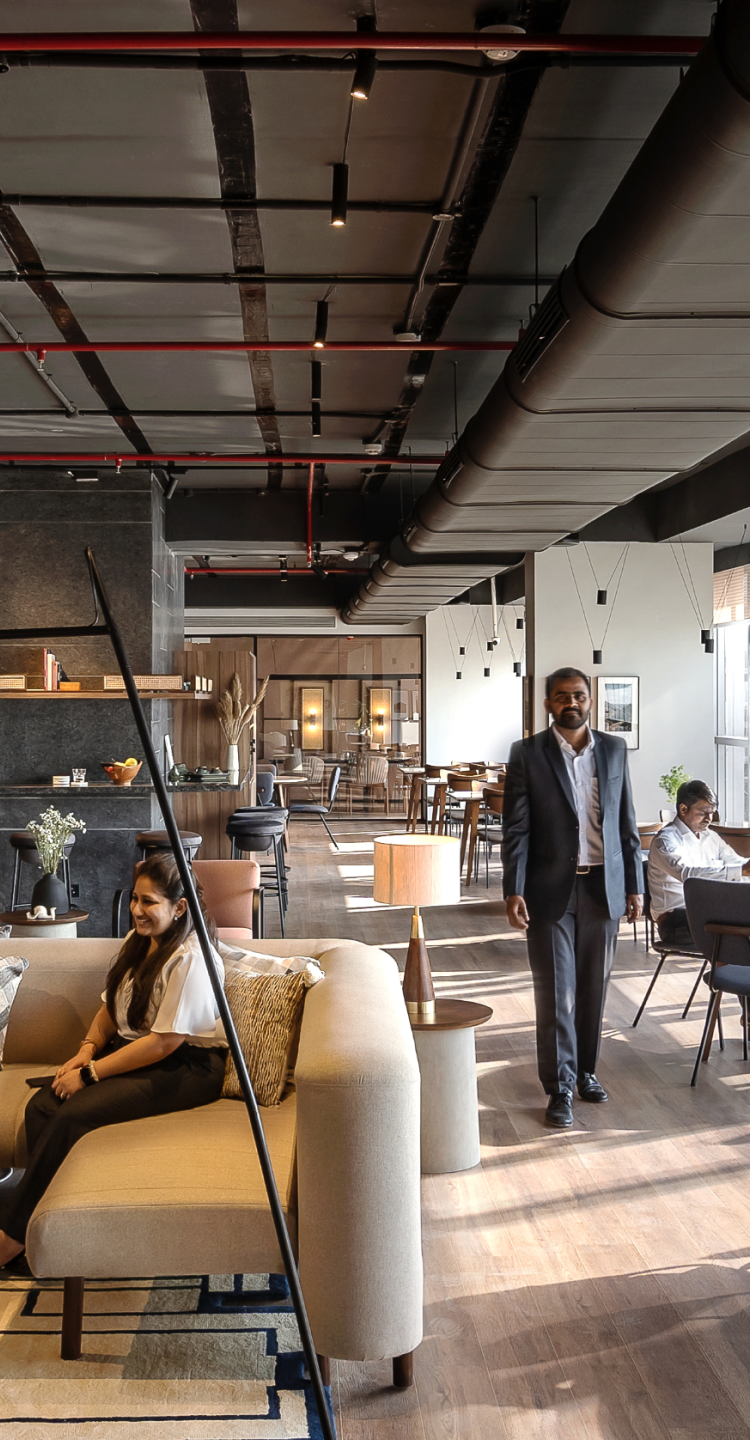
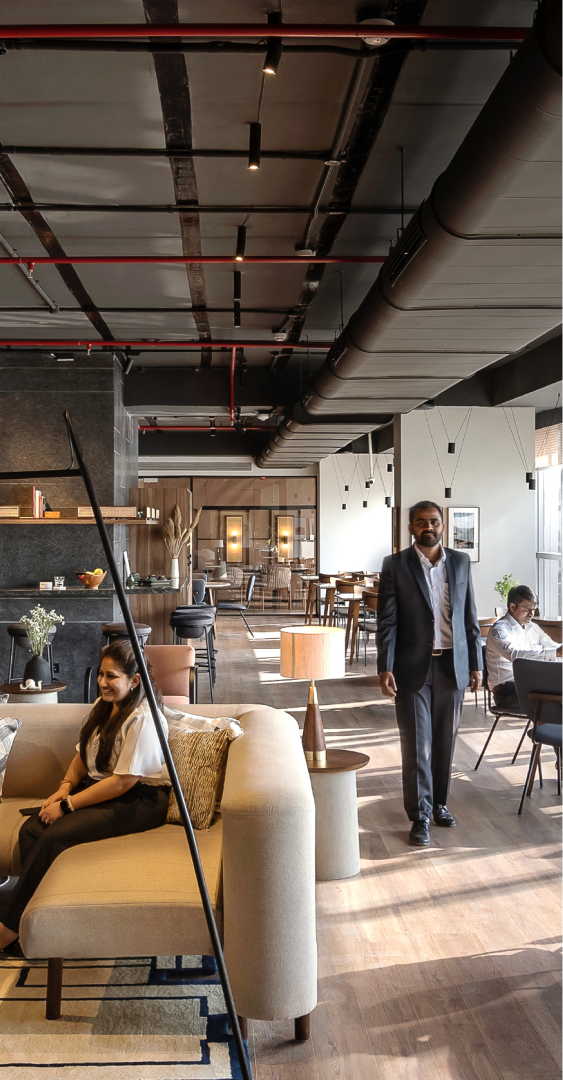
refactor: qc changes add

diff --git a/src/components/locationInside/restaurants.js b/src/components/locationInside/restaurants.js
@@ -11,12 +11,11 @@ export default function Restaurants({ data }) {
             <div className='w-full mx-auto  flex max-lg:items-center max-lg:justify-center  justify-between max-lg:flex-col max-lg:gap-10'>
                 <div className='w-[487px] max-lg:w-full'>
 
-                    <div className='text-6xl max-md:text-3xl '>{data?.locationName}</div>
+                    <div className='text-6xl max-md:text-3xl uppercase'>{data?.locationName}</div>
                     <div className='text-base  my-4 '>
                         <p className='text-[#7D7C7C] text-xs font-semibold'>CONNECTIVITY</p>
-                        <p className='pt-4'>Western Line - Lower Parel: 8 minute walk</p>
-                        <p>Harbour Line - Parel:  5 minutes walk</p>
-                        <p>Senapati Bapat Marg: 5 minutes walk</p>
+                        <p className='pt-4'>{data.location1}</p>
+                        <p>{data.location2}</p>
                     </div>
                     <div className='flex flex-wrap max-md:w-[300px] md:w-full gap-4'>
                         {data?.connectivityAmenities?.map((item, i) => <div className='flex mt-7  items-center justify-center ' key={i}>

diff --git a/src/components/location/explorecard.js b/src/components/location/explorecard.js
@@ -20,7 +20,7 @@ export default function ExploreCard({ data }) {
                             <Image src={el?.locationMobileImg} width={500} height={500} unoptimized alt="cardimage" className="w-full h-full object-cover aspect-[23/17]" />
                         </div>
                         <div className="flex flex-col p-4 xl:p-[21.5px] 2xl:px-[25px] w-full xl:w-1/2 2xl:w-[55%]">
-                            <span className="text-lg lg:text-xl font-medium">{el.locationName}</span>
+                            <span className="text-lg lg:text-xl font-medium uppercase">{el.locationName}</span>
                             <span className="text-xs lg:text-sm text-[#7D7C7C] font-semibold mb-3 uppercase">{el.locationCity}</span>
                             <div className="flex flex-col text-sm font-light mb-4">
                                 <span>{el.location1}</span>

diff --git a/src/components/locationInside/locationSpace.js b/src/components/locationInside/locationSpace.js
@@ -33,8 +33,8 @@ export default function LocationSpace({ data,url }) {
             </div>
             <div className='lg:hidden'>
                 <div className='bg-[#F6F4EE] w-full flex flex-col '>
-                    <div className='w-full h-[429px]'>
-                        <Image src="/images/locationInside/locationSpace.png" alt='space' height={300} width={300} className='h-full w-full' unoptimized />
+                    <div className='w-full aspect-[25/15]'>
+                        <Image src="/images/locationInside/locationSpaceMobile.png" alt='space' height={300} width={300} className='h-full w-full' unoptimized />
                     </div>
                     <div className='flex items-center px-6 pt-[48px] pb-[64px]'>
                         <div className=''>

diff --git a/src/app/api/contact/route.jsx b/src/app/api/contact/route.jsx
@@ -8,12 +8,11 @@ export async function POST(request) {
 
     const username = process.env.NEXT_PUBLIC_EMAIL_USERNAME;
     const password = process.env.NEXT_PUBLIC_EMAIL_PASSWORD;
-    const myEmail ="nidhivishwakarma@arhamlabs.com"
-    // const myEmail ="hello@urbanwrk.com"
+    const myEmail ="hello@urbanwrk.com"
 
     const formData = await request.formData()
 
-
+   
     const name = formData.get('name')
     const email = formData.get('email')
     const phone = formData.get('phone')

diff --git a/src/components/home/solutionCard.js b/src/components/home/solutionCard.js
@@ -27,7 +27,7 @@ export default function SolutionCard({ item }) {
           <div className='px-5'>
             <div className='border-black border'></div>
           </div>
-          <p className='text-base px-5 pt-2 pb-5 max-md:text-sm max-md:pb-1 '>{item.desc}</p>
+          <p className='text-base px-5 pt-2 pb-5 max-md:pb-1 '>{item.desc}</p>
         </div>
       </div>
       <div className='bg-primary h-3 border border-primary mt-1 bottom-0 w-full absolute'></div>
